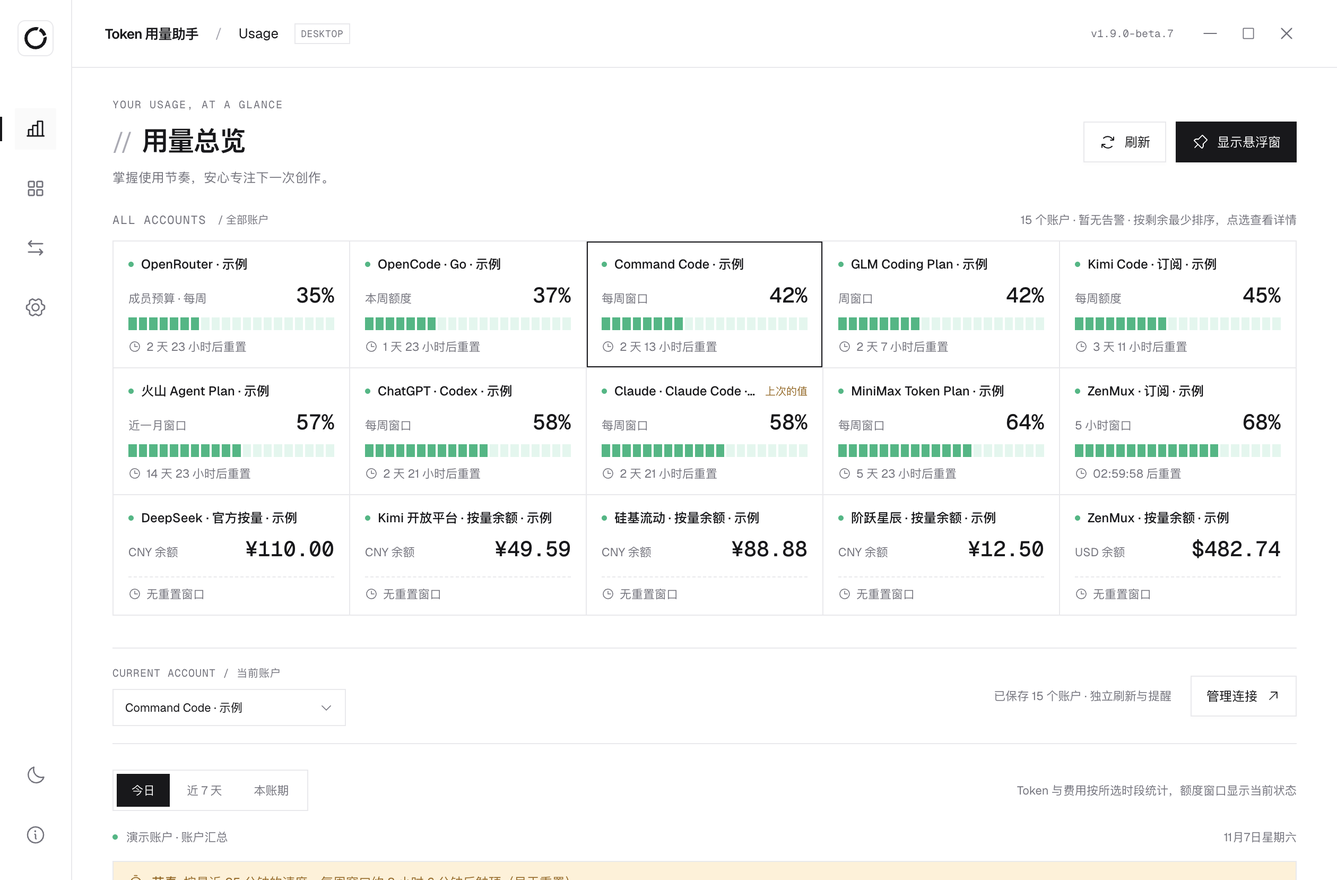
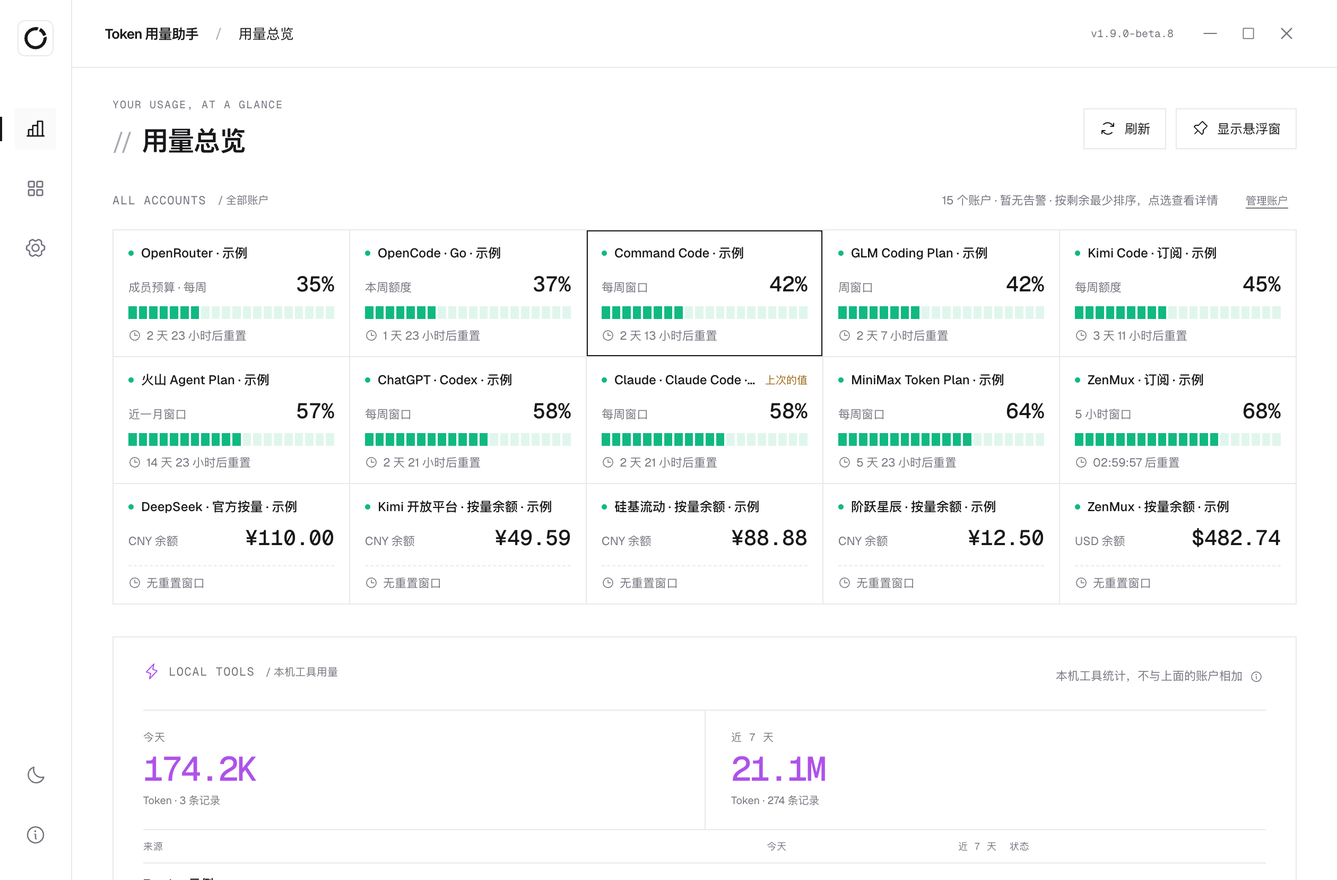
release: 1.9.0-beta.8 (stages 16-17)
- package.json 1.9.0-beta.8; upgrade profiles 1.9.0-beta.7-to-1.9.0-beta.8 (15 platforms, 10 with quota) and the
  same-version 1.9.0-beta.8 profile.
- CHANGELOG heading for 1.9.0-beta.8 (the public notes come from it); README (zh/en) version, overview screenshot of
  the new layout and its description; installer README alt text; AGENTS; issue template.
- Windows acceptance checklist moves to beta.8 with the new settings paths and an item for the new layout.

diff --git a/docs/WINDOWS-ACCEPTANCE-CHECKLIST.md b/docs/WINDOWS-ACCEPTANCE-CHECKLIST.md
@@ -2,7 +2,7 @@
 
 > 适用：Windows 10 / 11 x64，CI 的 Release 工作流产出的安装版 `TokenUsageAssistant-Setup-<版本>.exe` 与免安装版 `TokenUsageAssistant-Portable-<版本>.exe`（未做代码签名，见 [INSTALL](INSTALL.md) 与 [RELEASING](RELEASING.md)）。
 > 由**用户在自己的 Windows 电脑上**逐项执行并填写「实测记录」（D17 ③，T11.8）；结果计为证据等级 ③。执行模型不能操作这台电脑，所以这里没有「Claude 代测」。任何一项没有实测就不得标为通过；未通过的项记进改进计划第 5 节。
-> 1.9.0 正式版的门槛包括「Windows 真机验收通过」（D17 ③）。2026-11-06 起（T15.3，D22）在已发布的 **1.9.0-beta.7** 上做，它已包含阶段 11–14 的全部功能；第 16–22 项是阶段 12–14 在 Windows 上新增的检查。第 16 项（自动更新）只能在 1.9.0 发布后、从 beta.7 升级时测，第 4 项也在那时一并测；其余各项现在就可以做。可选项（第 21、22 项）没有条件就记「未测（没有条件）」。
+> 1.9.0 正式版的门槛包括「Windows 真机验收通过」（D17 ③）。2026-11-06 起（T15.3，D22）在已发布的测试版上做；**2026-11-23 起改在 1.9.0-beta.8 上做**，它包含阶段 11–17 的全部功能，主界面按阶段 16–17 重排（侧栏只有总览 / 用量分析 / 设置，设置分「账户 / 本机工具 / 提醒 / 外观与系统 / 高级」五个标签），下面各项已按新位置写。第 16–22 项是阶段 12–14 在 Windows 上新增的检查，第 23 项是阶段 16–17 的新布局。第 16 项（自动更新）可以从 beta.7 升到 beta.8 时测（beta.7 安装版已有「下载并安装」），第 4 项也在那时一并测；其余各项装上 beta.8 后就可以做。可选项（第 21、22 项）没有条件就记「未测（没有条件）」。
 
 **填写方式**：在「实测记录」中写日期、被测包的文件名、结果（通过 / 不通过 / 未测）和简短说明；有截图的写文件名即可。**截图与记录里不要出现 API Key、账户邮箱或真实余额以外的账户信息。**
 
@@ -31,19 +31,19 @@
 
 ## 3. 连接账户与重启后保留
 
-- **步骤**：在「账户与设置」里连接一个你实际在用的账户（例如 Command Code 或 Codex）；退出应用（托盘右键 → 退出助手）再重新打开。
+- **步骤**：在「设置 → 账户」里点「添加账户」，连接一个你实际在用的账户（例如 Command Code 或 Codex）；退出应用（托盘右键 → 退出助手）再重新打开。
 - **预期**：账户保存成功并开始显示额度；重新打开后账户仍在，不需要重新输入。凭据用 Windows DPAPI 加密，只能由当前 Windows 用户解密，不能拷到别的电脑使用。
 - **实测记录**：
 
 ## 4. 覆盖安装升级（每次发版必测）
 
 - **步骤**：在已保存账户、调整过设置（例如主题、提醒阈值）、移动过主窗口和悬浮窗位置的旧版本上，直接运行新版本的安装包覆盖安装，再打开。
-- **预期**：账户、设置、主窗口位置、悬浮窗位置都保留；不需要重新连接；不出现首次启动向导。从 beta.7 升到 1.9.0 时改用应用内的「下载并安装」（第 16 项），升级后同样检查这几点。
+- **预期**：账户、设置、主窗口位置、悬浮窗位置都保留；不需要重新连接；不出现首次启动向导。从 beta.7 升到 beta.8 时改用应用内的「下载并安装」（第 16 项），升级后同样检查这几点。
 - **实测记录**：
 
 ## 5. 开机自启
 
-- **步骤**：在「账户与设置」开启「开机启动」（或托盘右键菜单里勾选）；重启电脑并登录。
+- **步骤**：在「设置 → 外观与系统」开启「开机启动」（或托盘右键菜单里勾选）；重启电脑并登录。
 - **预期**：登录后应用自动启动并驻留托盘，主窗口不弹出（开机启动带 `--hidden` 参数）；关闭开关后再重启，不再自启。
 - **实测记录**：
 
@@ -73,13 +73,13 @@
 
 ## 10. 通知
 
-- **步骤**：在「账户与设置」点「测试通知」；如有条件，等一个窗口低于提醒阈值。
+- **步骤**：在「设置 → 提醒」点「测试通知」；如有条件，等一个窗口低于提醒阈值。
 - **预期**：右下角出现系统通知，标题和正文与界面语言一致（中文或英文），没有乱码；点通知打开主窗口。如果系统的「通知」或「专注」设置把它拦住了，请记录。
 - **实测记录**：
 
 ## 11. 真实编程工具同步
 
-- **步骤**：在「账户与设置 → 工具数据源」添加你实际在用的工具（例如 Codex、Zcode、OpenCode、Gemini CLI、Kimi Code CLI、Qwen Code、Cline，以及不用启动脚本的「Claude Code 会话日志」）；使用一段时间后点同步；打开「用量分析」。
+- **步骤**：在「设置 → 本机工具」（或总览「本机工具用量」里列出的「本机发现、尚未添加」）添加你实际在用的工具（例如 Codex、Zcode、OpenCode、Gemini CLI、Kimi Code CLI、Qwen Code、Cline，以及不用启动脚本的「Claude Code 会话日志」）；使用一段时间后点同步；打开「用量分析」。
 - **预期**：添加时，如果工具在默认位置，会提示「本机已找到 …」，文件选择框直接打开在那个位置（T12.6），仍要你确认；来源卡片显示正常或「部分字段缺失」，不报「格式不兼容」（如果报了，请附诊断信息，只含字段名）；用量分析里有对应时段的数据；不读取对话内容。
 - **实测记录**：
 
@@ -111,21 +111,21 @@
 
 以下第 16–22 项是阶段 12–14 加入的（2026-11-06 补，T15.3）。
 
-## 16. 应用内更新（T12.8，1.9.0 发布后测）
+## 16. 应用内更新（T12.8，从 beta.7 升到 beta.8 时测）
 
-- **步骤**：在已安装的 beta.7 安装版里打开「账户与设置」，确认「检查更新」已开启；1.9.0 发布后重新打开应用（或等它每 24 小时自动检查），出现新版本提示后点「下载并安装」，下载完再点「重启并安装」。另外在免安装版里看同一处。
-- **预期**：不点「下载并安装」就不下载；下载后核对校验值，失败时按钮变成「重新下载」；点「重启并安装」后应用重启，版本变为 1.9.0，账户、设置、窗口位置都在（同第 4 项）；免安装版只提示有新版本，不提供下载安装。**请记录**：安装过程中有没有出现 SmartScreen 或用户账户控制（UAC）的提示。
+- **步骤**：在已安装的 beta.7 安装版里打开「账户与设置」，确认「检查更新」已开启；beta.8 发布后重新打开应用（或等它每 24 小时自动检查），出现新版本提示后点「下载并安装」，下载完再点「重启并安装」。另外在免安装版里看同一处。
+- **预期**：不点「下载并安装」就不下载；下载后核对校验值，失败时按钮变成「重新下载」；点「重启并安装」后应用重启，版本变为 1.9.0-beta.8，账户、设置、窗口位置都在（同第 4 项）；免安装版只提示有新版本，不提供下载安装。**请记录**：安装过程中有没有出现 SmartScreen 或用户账户控制（UAC）的提示。
 - **实测记录**：
 
 ## 17. 英文界面（T14.4）
 
-- **步骤**：「账户与设置」里的「语言 · Language」选 English；依次看主窗口各页、托盘右键菜单、托盘悬停提示、托盘面板、悬浮窗，点「测试通知」，再打开一个对话框（例如导出 CSV 的保存框）；最后改回「跟随系统」。
+- **步骤**：「设置 → 外观与系统」里的「语言 · Language」选 English；依次看主窗口各页、托盘右键菜单、托盘悬停提示、托盘面板、悬浮窗，点「测试通知」，再打开一个对话框（例如导出 CSV 的保存框）；最后改回「跟随系统」。
 - **预期**：以上都变成英文，不用重启；账户名和平台返回的原始数据不翻译；改回后恢复中文。**请记录**仍然是中文的文字和它所在的位置（不算不通过，用来补翻译）。
 - **实测记录**：
 
 ## 18. 余额提醒（T14.2）
 
-- **步骤**：有余额类账户（例如 DeepSeek、Kimi 开放平台、硅基流动）时，在「账户与设置 → PREFERENCES」的「余额提醒金额」里，给它的币种填一个比当前余额高的金额；看托盘图标、托盘面板、总览；然后清空这个金额。
+- **步骤**：有余额类账户（例如 DeepSeek、Kimi 开放平台、硅基流动）时，在「设置 → 提醒」的「余额提醒金额」里，给它的币种填一个比当前余额高的金额；看托盘图标、托盘面板、总览；然后清空这个金额。
 - **预期**：该账户的余额显示「低于提醒金额」并变成琥珀色，托盘图标整环带黄，排序靠前；只弹一次通知，不会反复弹；人民币的提醒只和人民币余额比较，美元同理，不换汇；清空后恢复原样。
 - **实测记录**：
 
@@ -137,18 +137,27 @@
 
 ## 20. 命令行读取额度（T13.5）
 
-- **步骤**：在「账户与设置」开启「命令行读取额度」；把设置里显示的 `tua-status.cmd` 完整路径复制到 PowerShell 或「命令提示符」里运行，再加 `--text` 运行一次；最后关闭这一项。
+- **步骤**：在「设置 → 高级」开启「命令行读取额度」；把设置里显示的 `tua-status.cmd` 完整路径复制到 PowerShell 或「命令提示符」里运行，再加 `--text` 运行一次；最后关闭这一项。
 - **预期**：分别打印 JSON 和文字形式的额度快照，只有额度百分比、重置时间和余额，不含密钥；关闭后这些文件被删除，命令不能再运行。**请记录**：如果公司电脑的组策略禁止运行 PowerShell 脚本，记下报错。
 - **实测记录**：
 
 ## 21. Claude Code 接入（T13.1、T12.7，可选：这台电脑装了 Claude Code 才测）
 
-- **步骤**：在 Claude 账户的「账户连接」里点「接入所有会话」并确认；直接打开一个 Claude Code 会话（不用助手的启动脚本），发一句话；再在「账户与设置」开启「Claude Code 状态栏」看会话底部；最后回到「账户连接」点「还原」。
+- **步骤**：在「设置 → 账户」里 Claude 那一行点「编辑」，在展开的表单里点「接入所有会话」并确认；直接打开一个 Claude Code 会话（不用助手的启动脚本），发一句话；再在「账户与设置」开启「Claude Code 状态栏」看会话底部；最后回到「账户连接」点「还原」。
 - **预期**：如果 `%USERPROFILE%\.claude\settings.json` 里已有你自己的 statusLine，显示「已有自定义状态栏 · 暂不接入」，文件不被修改；没有的话接入成功，会话的套餐额度开始采集，状态栏显示类似「Claude 5h 60% · 最紧 …」；还原后 settings.json 恢复原样，其他设置不变。
 - **实测记录**：
 
 ## 22. 服务商状态（T14.3，可选，默认关闭）
 
-- **步骤**：在「账户与设置」开启「服务商状态」；打开 Claude、Codex、Kimi 开放平台或 MiniMax 账户的详情页。
+- **步骤**：在「设置 → 高级」开启「服务商状态」；打开 Claude、Codex、Kimi 开放平台或 MiniMax 账户的详情页。
 - **预期**：账户行右侧显示「<公司> 官方状态：<状态> · N 分钟前查询 · 状态页 ↗」，点链接用浏览器打开状态页；取不到时显示「—」，不影响额度显示；关闭后不再显示。**请记录**：在公司网络或代理下能不能取到。
 - **实测记录**：
+
+以下第 23 项是阶段 16–17 加入的（2026-11-23，随 1.9.0-beta.8）。
+
+## 23. 新布局（T16.1–T17.9）
+
+- **步骤**：在 beta.8 里依次看：侧栏三项（总览 / 用量分析 / 设置）；总览从上到下是全部账户卡片、「本机工具用量」（今天与近 7 天，按来源列出；如有「本机发现、尚未添加」，点「添加」后在系统选择框里确认）、账户详情；用量分析顶部的「本机工具 / 账户统计 / 数据覆盖」；设置的五个标签与「账户」里的账户列表（点「编辑」，表单在该行下方展开，再点收起）。有 Key 失效的账户时，看它的卡片和列表行。把窗口缩窄、改变缩放（125% / 150%）各看一次。
+- **预期**：各页都能找到原来的设置项；本机工具用量与账户数据分开、写明不相加；Key 失效的账户写「需要重新连接」、数值变灰，列表那一行的按钮是「重新连接」；窄窗口和高缩放下文字不重叠、不被截断到看不懂。
+- **实测记录**：
+

diff --git a/AGENTS.md b/AGENTS.md
@@ -2,8 +2,8 @@
 
 Token 用量助手：中文本机桌面助手（Windows x64 + Apple Silicon macOS），独立查看 AI 编程平台的额度/余额与本机编程工具的用量。非任何平台的官方客户端。
 
-- 当前版本：**1.9.0-beta.7**（阶段 11–14：全部账户总览与 Windows 托盘面板、首次启动向导、Windows 自动更新、Claude 一步接入与会话日志、更多工具与平台、导出 CSV 与命令行、余额提醒、服务商状态、英文界面；2026-11-05 发布。四种安装包由 CI 的 Release 工作流产出，见 [docs/RELEASING.md](docs/RELEASING.md)）
-- 当前改进计划：[IMPROVEMENT_PLAN.md](IMPROVEMENT_PLAN.md)，其中第 1 节是用户已拍板的决策（D1–D22）
+- 当前版本：**1.9.0-beta.8**（阶段 16–17：主界面重排为总览 / 用量分析 / 设置，总览并排显示账户剩余与本机工具用量，设置分标签、账户列表，「需要重新连接」与账户读不出来时的说明；2026-11-23 发布。上一版 1.9.0-beta.7 是阶段 11–14。四种安装包由 CI 的 Release 工作流产出，见 [docs/RELEASING.md](docs/RELEASING.md)）
+- 当前改进计划：[IMPROVEMENT_PLAN.md](IMPROVEMENT_PLAN.md)，其中第 1 节是用户已拍板的决策（D1–D24）
 - 工作方式：**追赶模式**（D18，2026-11-03）——快速迭代、大刀阔斧改进，红线不让步，见第 7 节
 - 旧规则原文：[docs/history/AGENTS-through-1.8.0-beta.5.md](docs/history/AGENTS-through-1.8.0-beta.5.md)；逐条去向：[docs/history/AGENTS-migration.md](docs/history/AGENTS-migration.md)
 
@@ -95,7 +95,7 @@ Token 用量助手：中文本机桌面助手（Windows x64 + Apple Silicon macO
   - 分支上的 Release 打包试跑：只在发版前做，以及改了打包配置、Electron、原生 smoke 本身或打包工具链依赖时做。
   - 本机 Mac 测试包（取代 D1）：用户想试用时才出，文件名加 `-dev.<短 commit>`。
 - **原生 smoke 冻结**：不再新增段落；现有检查被改动弄坏时修好它。新功能靠单元 / 契约测试和开发版截图保证。
-- **发版**：不按阶段发版，只在有值得给人看的东西时发（首发、一次大改之后）；平时只在 main 上推进，版本号只在发版时改。发版走完整流程（升级验证 profile、Release、存档核对、Publish，见 [docs/RELEASING.md](docs/RELEASING.md)），按 D13 每个版本只确认一次。当前：1.9.0-beta.7 已发（2026-11-05，Windows 真机验收未做，未达 1.9.0 门槛）；达到门槛（D17 加入 Windows 真机验收）后发 1.9.0 正式版并首发。历次版本见 [CHANGELOG.md](CHANGELOG.md)。
+- **发版**：不按阶段发版，只在有值得给人看的东西时发（首发、一次大改之后）；平时只在 main 上推进，版本号只在发版时改。发版走完整流程（升级验证 profile、Release、存档核对、Publish，见 [docs/RELEASING.md](docs/RELEASING.md)），按 D13 每个版本只确认一次。当前：1.9.0-beta.8 已发（2026-11-23，阶段 16–17；Windows 真机验收未做，未达 1.9.0 门槛）；达到门槛（D17 加入 Windows 真机验收）后发 1.9.0 正式版并首发。历次版本见 [CHANGELOG.md](CHANGELOG.md)。
 - **出包核对**：包内版本和代码必须与源码一致；只改了源码，不得称为已交付。Windows 包由 CI 产出，没在真机上装过的不写成「已验证」。
 - **Mac 包**：本机 electron-builder 构建 `.app` + DMG/ZIP（arm64、hardened runtime、entitlements、不公证）。
   - 签名一律 ad-hoc。2026-10-25 试过用户的自签名证书：钥匙串的分区表对没有 Apple 团队 ID 的程序仍按每次构建的哈希记录，换证书后每个新包照样弹授权，已撤回。装新版本时正式条目弹一次授权，属于 D4 的已知限制。

diff --git a/README.en.md b/README.en.md
@@ -6,18 +6,18 @@
 
 <picture>
   <source media="(prefers-color-scheme: dark)" srcset="docs/readme/overview-dark.png">
-  <img src="docs/readme/overview-light.png" alt="Usage overview: all accounts sorted by least remaining, with quota windows, reset times and balances (sample data)" width="900">
+  <img src="docs/readme/overview-light.png" alt="Usage overview: every account on top (quota windows sorted by least remaining, reset times and balances), local tool tokens for today and the last 7 days below (sample data)" width="900">
 </picture>
 
 <sub>Screenshots use the app's built-in sample data, not a real account, and show the Chinese interface.</sub>
 
 **[Download](https://github.com/junjunup/TokenUsageAssistant/releases)**: Windows Setup / Portable, macOS DMG / ZIP, with SHA256 checksums. Installing and first launch: see [Install and upgrade](docs/INSTALL.md#english).
 
-Current version: **1.9.0-beta.7** (beta, not signed or notarized). History: [CHANGELOG.md](CHANGELOG.md) (Chinese).
+Current version: **1.9.0-beta.8** (beta, not signed or notarized). History: [CHANGELOG.md](CHANGELOG.md) (Chinese).
 
 ## What it does
 
-- **Every account on one screen**: the overview starts with one card per account, sorted by least remaining: what is left in each 5-hour / weekly / monthly window and when it resets, plus the balance of pay-as-you-go platforms (with optional reminder amounts, set separately for CNY and USD). Up to 20 accounts, each refreshed and alerted on its own; optionally the official service status of Anthropic, OpenAI, Moonshot and MiniMax.
+- **Every account on one screen**: the overview starts with one card per account, sorted by least remaining: what is left in each 5-hour / weekly / monthly window and when it resets, plus the balance of pay-as-you-go platforms (with optional reminder amounts, set separately for CNY and USD). Up to 20 accounts, each refreshed and alerted on its own; optionally the official service status of Anthropic, OpenAI, Moonshot and MiniMax. Right below: how many tokens your local tools used today and over the last 7 days, kept apart from account data and never added to it; tools found at their default location but not added yet are listed too.
 - **A glance without opening a window**: the Windows tray ring shows what the tightest account has left, turning amber when low and red when used up; hover to list each account's tightest value, left-click for the panel. macOS has a menu bar icon with the same panel; both have an always-on-top floating window and light and dark themes.
 - **Local tool usage**: tokens, requests, models and projects for Codex, Claude Code, Gemini CLI, Kimi Code CLI, Qwen Code, Cline, Kilo Code, Goose, Crush, Zcode, OpenCode and DeepSeek Harness; optional cost estimates from prices you enter (USD and CNY kept apart); records can be exported as CSV, and an optional `tua-status` command prints every account's quota as JSON or text.
 - **Interface language**: Chinese and English (every page, system notifications, the tray and menus, and dialogs; a few raw messages from platforms or tools may still be Chinese). It follows your system language; you can switch it in Settings.

diff --git a/CHANGELOG.md b/CHANGELOG.md
@@ -2,12 +2,12 @@
 
 倒序排列。每个版本的详细说明、验证记录见对应的 `docs/` 专题文档和 `docs/verification-<版本>/`。证据等级：①合成契约测试 ②打包原生 smoke ③真实账户或真机验收。
 
-## 未发布（main，阶段 16「聚焦用量监测」、阶段 17「真实数据下好用」）
+## 1.9.0-beta.8（2026-11-23，聚焦用量监测、真实数据下好用）
 
 - 主界面重新整理，更容易找到东西：侧栏只留「总览 / 用量分析 / 设置」三项；原来单独一项的「覆盖范围报告」改为用量分析里的「数据覆盖」标签。
 - 设置分成「账户 / 本机工具 / 提醒 / 外观与系统 / 高级」五个标签，不用再往下翻一长页；所有设置项都还在，含义和默认值不变。额度提醒、提醒阈值、余额提醒金额和测试通知放在「提醒」；悬浮窗、开机启动、检查更新、自动刷新、语言和菜单栏 / 托盘设置放在「外观与系统」；Claude 状态栏、命令行读取额度、服务商状态、导出诊断和账户关联放在「高级」（有待重新确认的关联时，标签上会显示数字）。别处「去设置」的链接会直接打开对应的标签。深浅色只在侧栏切换。
 - 总览从上到下：全部账户卡片（从第一个账户起就显示，右上角有「管理账户」）→ 新的「本机工具用量」：今天和最近 7 天各个本机工具报告的 Token 与记录数，按来源列出，写明是本机工具统计、不与账户数据相加，缺失显示「—」→ 当前账户的详情，标题写明是哪个账户。总览上不再有账户切换下拉框，点卡片切换。
-- 证据：①合成契约测试 + 开发版隔离原生 smoke；界面截图用示例数据，没有在真实账户上看过。
+- 证据：①合成契约测试 + 原生 smoke；2026-11-23 在一台 Mac 上用两个真实账户（Command Code、Claude）与本机 Claude Code 会话日志看过新布局、账户列表、「需要重新连接」与用量分析标签（③，Claude 代测）；Windows 上的新布局没有真机看过，其他平台没有真实账户核对。
 - 本机找到但还没添加的工具，直接显示在总览的「本机工具用量」里（例如 `~/.claude` 的 Claude Code 会话日志、`~/.codex`），点「添加」后在系统选择框里确认位置；不想用的可以「不再提示」。只检查默认位置是否存在，不读内容。
 - 原来叫「Claude Code」的数据源改名为「Claude Code（启动脚本）」——它只记录用助手启动脚本打开的会话；桌面版和命令行的会话都在「Claude Code 会话日志」里，下拉框里它排在前面。已保存的数据源名称不变。
 - Key 失效的账户不再显示成「上次的值」的余额（例如红色的 $0.00 像是用完了）：卡片上写「需要重新连接」、数值变灰；连接中断写「连接中断 · 上次的值」；面板也会提示到主窗口重新连接。上次成功的值和时间照旧保留。

diff --git a/README.md b/README.md
@@ -6,18 +6,18 @@
 
 <picture>
   <source media="(prefers-color-scheme: dark)" srcset="docs/readme/overview-dark.png">
-  <img src="docs/readme/overview-light.png" alt="用量总览：全部账户按剩余最少排序，显示额度窗口、重置时间和按量余额（示例数据）" width="900">
+  <img src="docs/readme/overview-light.png" alt="用量总览：上面是全部账户（按剩余最少排序的额度窗口、重置时间与按量余额），下面是本机工具今天和近 7 天的 Token（示例数据）" width="900">
 </picture>
 
 <sub>截图使用应用内置的示例数据，不是真实账户。</sub>
 
 **[下载安装包](https://github.com/junjunup/TokenUsageAssistant/releases)**：Windows 安装版 / 便携版、macOS DMG / ZIP，附 SHA256 校验。安装与首次打开见 [安装与升级](docs/INSTALL.md)。
 
-当前版本：**1.9.0-beta.7**（开发测试版，未签名、未公证）。更新历史见 [CHANGELOG.md](CHANGELOG.md)。
+当前版本：**1.9.0-beta.8**（开发测试版，未签名、未公证）。更新历史见 [CHANGELOG.md](CHANGELOG.md)。
 
 ## 能做什么
 
-- **一屏看全部账户**：总览顶部每个账户一格，按剩余最少排序；5 小时 / 每周 / 月度窗口剩余多少、什么时候重置，按量平台的余额（可按人民币 / 美元分别设置提醒金额），都放在一起。最多 20 个账户，各自刷新、各自提醒；可选显示 Anthropic、OpenAI、Moonshot、MiniMax 的官方服务状态。
+- **一屏看全部账户**：总览顶部每个账户一格，按剩余最少排序；5 小时 / 每周 / 月度窗口剩余多少、什么时候重置，按量平台的余额（可按人民币 / 美元分别设置提醒金额），都放在一起。最多 20 个账户，各自刷新、各自提醒；可选显示 Anthropic、OpenAI、Moonshot、MiniMax 的官方服务状态。下面紧接着是本机工具今天和近 7 天用了多少 Token，与账户数据分开、不相加；在默认位置找到但还没添加的工具也会列出来。
 - **不打开窗口也能瞄一眼**：Windows 托盘的刻度环显示最紧账户的剩余，快用完变黄、用尽变红；鼠标停上去列出各账户的最紧值，左键弹出面板。Mac 有菜单栏图标和同样的面板，两边都有置顶悬浮窗和深浅色主题。
 - **本机工具用量**：Codex、Claude Code、Gemini CLI、Kimi Code CLI、Qwen Code、Cline、Kilo Code、Goose、Crush、Zcode、OpenCode、DeepSeek Harness 的 Token、请求、模型与项目分布；可按自己填的单价估算费用（USD / CNY 分开），明细可导出为 CSV；也可以开启命令行读取额度（`tua-status`，输出 JSON 或文字）。
 - **界面语言**：中文与英文（所有页面、系统通知、托盘与菜单、对话框都有英文；平台或工具返回的个别原始说明可能仍是中文），默认跟随系统，可在设置里切换。

diff --git a/docs/installer-repo/README.md b/docs/installer-repo/README.md
@@ -6,7 +6,7 @@
 
 <picture>
   <source media="(prefers-color-scheme: dark)" srcset="https://raw.githubusercontent.com/junjunup/token-usage-assistant/main/docs/readme/overview-dark.png">
-  <img src="https://raw.githubusercontent.com/junjunup/token-usage-assistant/main/docs/readme/overview-light.png" alt="用量总览：全部账户按剩余最少排序，显示额度窗口、重置时间和按量余额（示例数据）" width="900">
+  <img src="https://raw.githubusercontent.com/junjunup/token-usage-assistant/main/docs/readme/overview-light.png" alt="用量总览：上面是全部账户（按剩余最少排序的额度窗口、重置时间与按量余额），下面是本机工具今天和近 7 天的 Token（示例数据）" width="900">
 </picture>
 
 <sub>截图使用应用内置的示例数据，不是真实账户。</sub>
